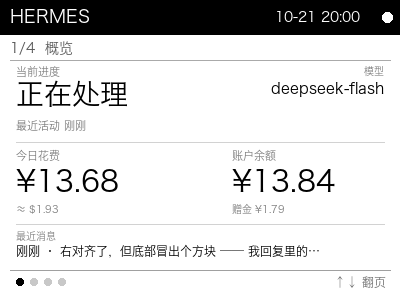
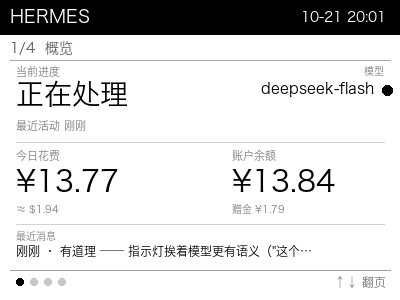
polish: 连接指示灯移到模型右侧（实心=已连接，空心=断开）

diff --git a/agent_status.py b/agent_status.py
@@ -242,13 +242,9 @@ def render(out, page=0):
     d.rectangle([0, 0, W, 34], fill=0)
     d.text((10, 7), "HERMES", font=font(18), fill=255)
     now = datetime.datetime.now().strftime("%m-%d %H:%M")
-    d.text((W - 40 - d.textlength(now, font=font(14)), 9), now, font=font(14), fill=255)
-    # 右上角：设备连接指示灯（实心=已连接，空心=未连接）
-    _ltxt, _lok = link_status()
-    if _lok:
-        d.ellipse([W - 18, 12, W - 8, 22], fill=255)
-    else:
-        d.ellipse([W - 18, 12, W - 8, 22], outline=255, width=2)
+    d.text((W - 14 - d.textlength(now, font=font(14)), 9), now, font=font(14), fill=255)
+    # 顶栏不再放灯：时间右对齐到底
+
 
     # 页标题
     d.text((10, 40), f"{page + 1}/{len(PAGES)}  {PAGES[page]}", font=font(14), fill=90)
@@ -283,7 +279,15 @@ def render(out, page=0):
             mdl = mdl[:-2] + "…"
         d.text((W - 16 - d.textlength("模型", font=font(10, bold=False)), 66),
                "模型", font=font(10, bold=False), fill=125)
-        d.text((W - 16 - d.textlength(mdl, font=font(15)), 80), mdl, font=font(15), fill=0)
+        # 指示灯：实心=已连接，空心=断开
+        _ltxt, _lok = link_status()
+        dot_r = 5
+        dot_cx, dot_cy = W - 13, 90
+        if _lok:
+            d.ellipse([dot_cx - dot_r, dot_cy - dot_r, dot_cx + dot_r, dot_cy + dot_r], fill=0)
+        else:
+            d.ellipse([dot_cx - dot_r, dot_cy - dot_r, dot_cx + dot_r, dot_cy + dot_r], outline=0, width=2)
+        d.text((dot_cx - dot_r - 8 - d.textlength(mdl, font=font(15)), 80), mdl, font=font(15), fill=0)
 
         d.line([16, 142, W - 16, 142], fill=210)
 
